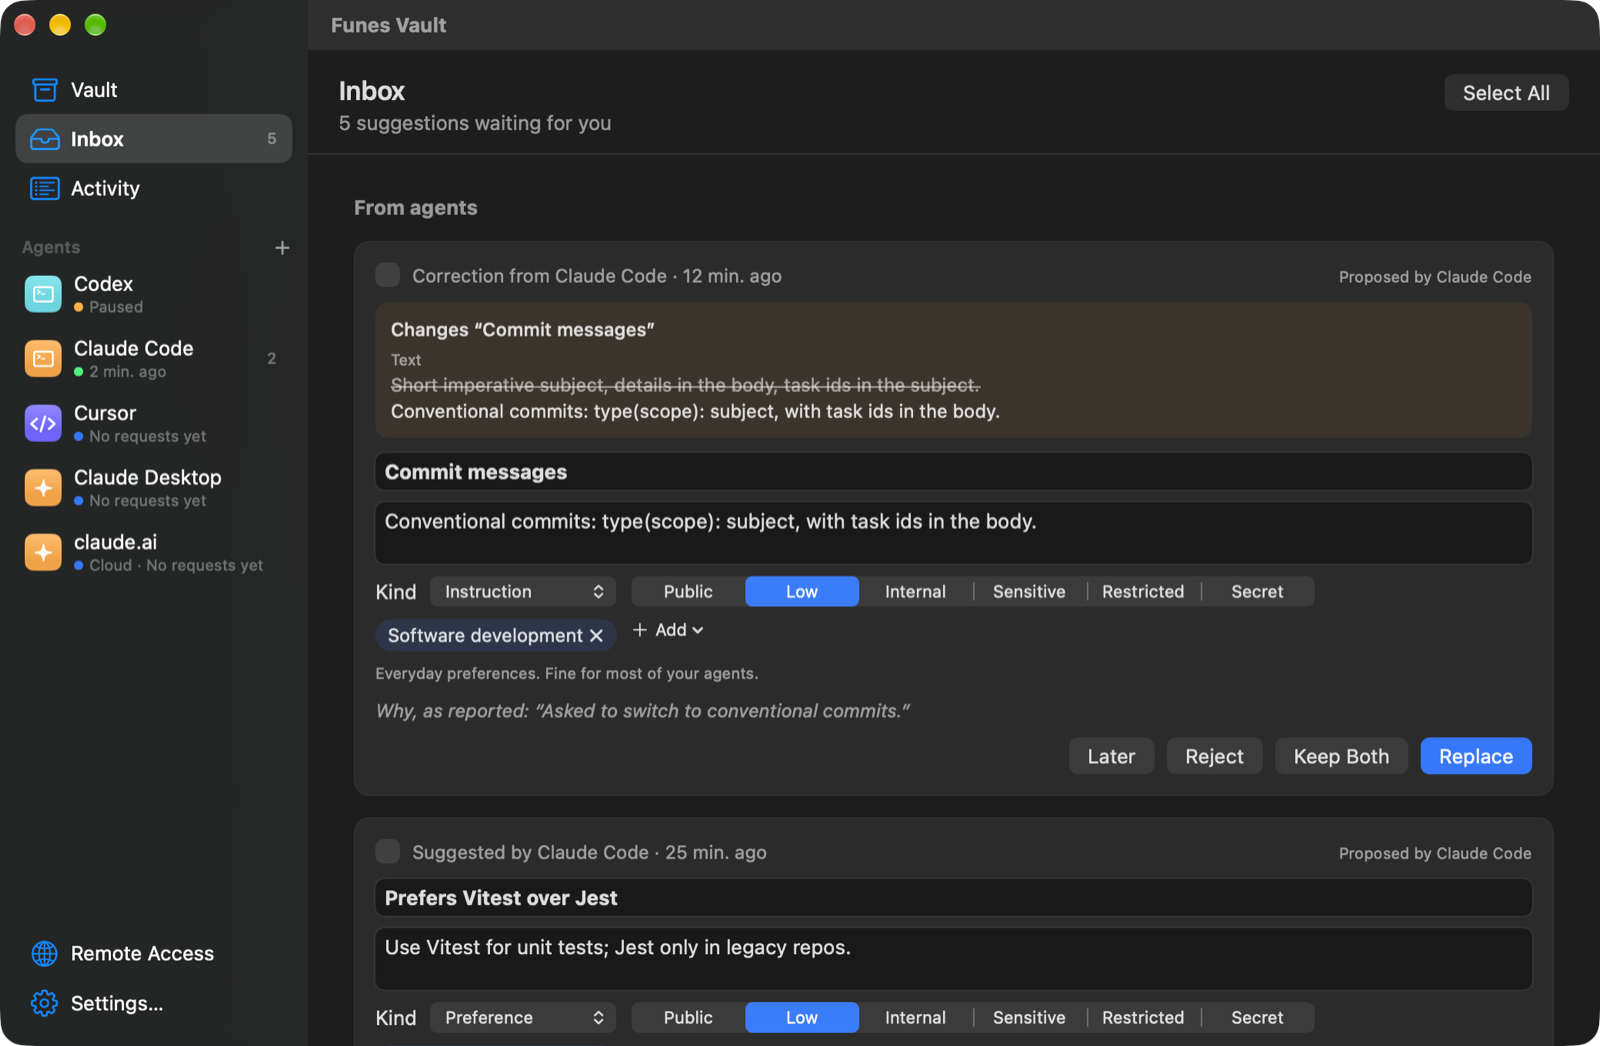
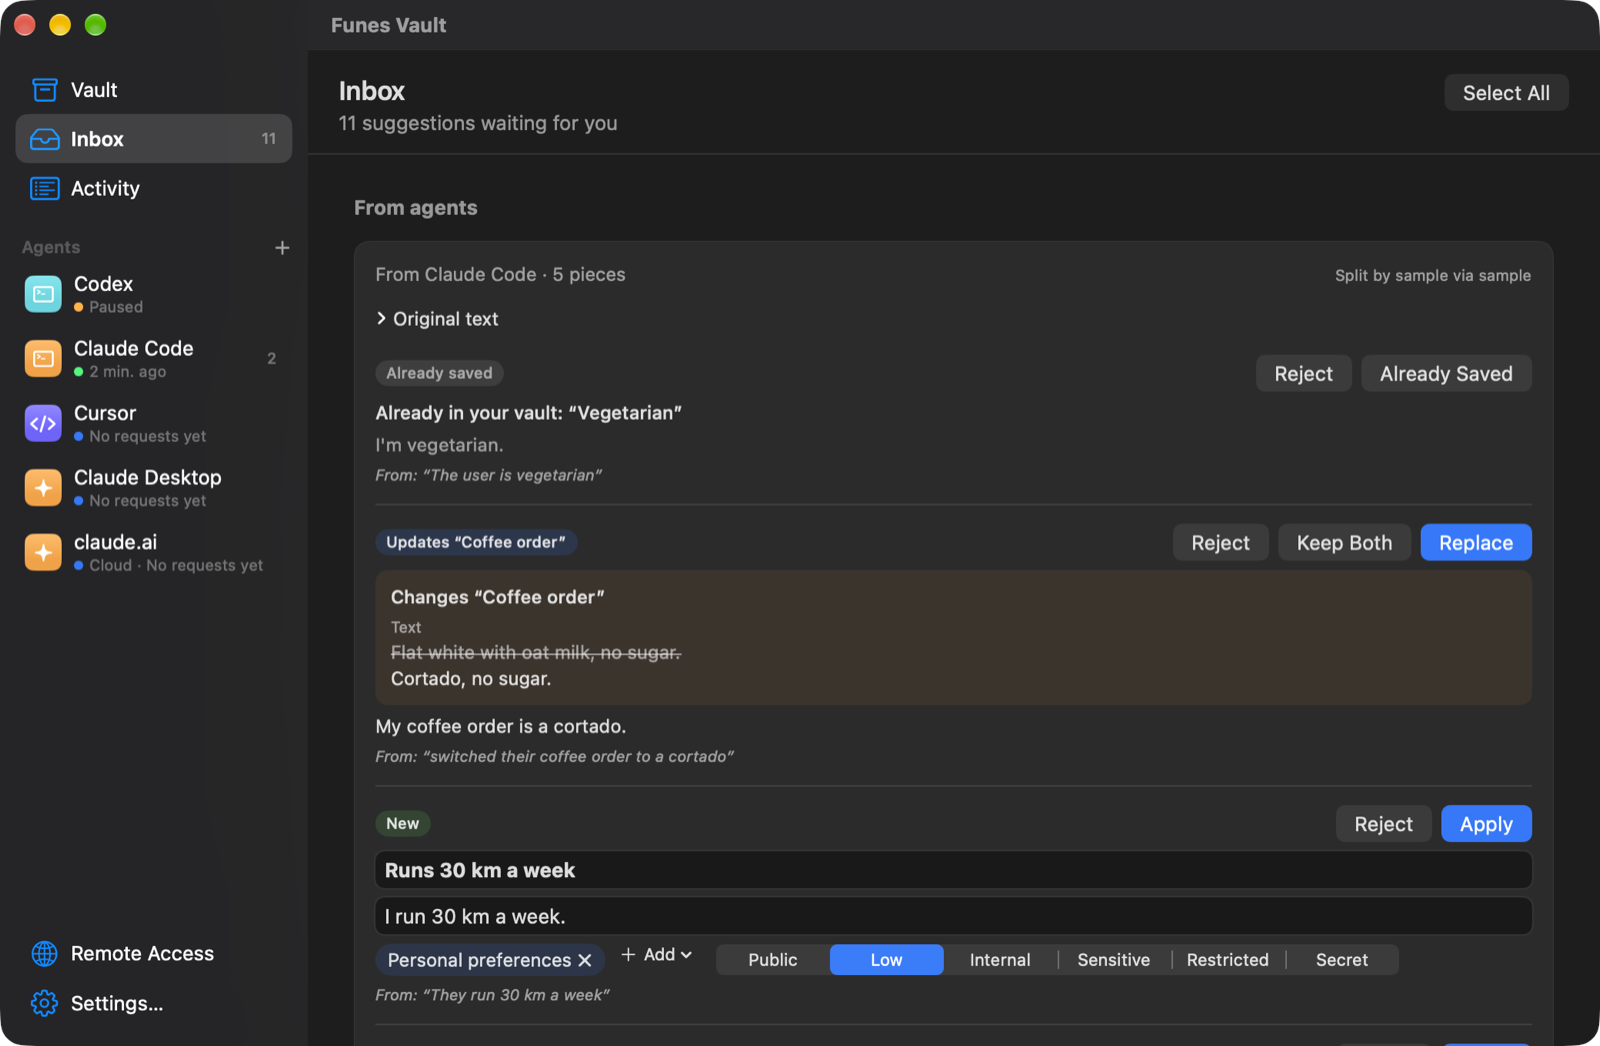
README: the Inbox screenshot shows a split note's group card

diff --git a/README.md b/README.md
@@ -98,7 +98,7 @@ Agents propose memories, and by default each one waits in the **Inbox** as a car
 
 <picture>
   <source media="(prefers-color-scheme: dark)" srcset="docs/images/inbox-dark.png">
-  <img alt="The Inbox: a correction from Claude Code showing the old text struck out and the new text, with editable title, text, kind, sensitivity and categories, the agent's reason as reported, and Later, Reject, Keep Both and Replace buttons." src="docs/images/inbox-light.png" width="720">
+  <img alt="The Inbox: a note from Claude Code split into 5 pieces on one card, split by the chosen model. One piece is marked Already saved, one Updates “Coffee order” and shows the old text struck out with the new text, and one is New with editable title, text, categories and sensitivity. Each piece shows the words it came from and has its own Reject and Apply buttons." src="docs/images/inbox-light.png" width="720">
 </picture>
 
 ### You see everything, and stop anything
